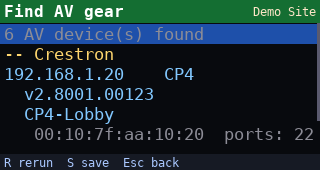
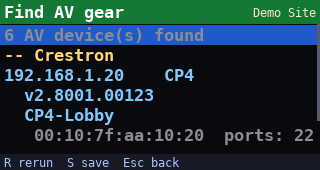
net-tools 0.2.4: match shared TNT UI colours and font, number-only fields
Claude-Session: https://claude.ai/code/session_01GkgDxeG2mjJ9KCWVtnQ19T

diff --git a/net-tools/tntnet/ui.py b/net-tools/tntnet/ui.py
@@ -25,9 +25,9 @@ OK = (110, 230, 120)
 WARN = (255, 190, 60)
 BAD = (255, 95, 95)
 INFO = (130, 200, 255)
-BAR = (20, 110, 50)       # green title bar
-SEL = (30, 80, 170)       # blue highlight: move with F/X
-EDIT = (170, 30, 30)      # red highlight: typing into this field
+BAR = (18, 120, 52)       # green title bar (same as the shared TNT UI)
+SEL = (30, 90, 200)       # blue highlight: move with F/X
+EDIT = (190, 28, 28)      # red highlight: typing into this field
 
 MONO = "/usr/share/fonts/truetype/dejavu/DejaVuSansMono.ttf"
 MONO_BOLD = "/usr/share/fonts/truetype/dejavu/DejaVuSansMono-Bold.ttf"
@@ -135,6 +135,12 @@ class Field:
     choices: list = field(default_factory=list)   # cycle with Left/Right
 
 
+# Fields that only take certain characters (IPs: digits and dots).
+_DIGITS = set("0123456789")
+ALLOWED = {"ip": _DIGITS | {"."}, "port": _DIGITS, "lport": _DIGITS, "count": _DIGITS,
+           "size": _DIGITS, "seconds": _DIGITS, "mb": _DIGITS, "extra": _DIGITS | {",", " "}}
+
+
 class Form(Screen):
     """Fields on the keyboard, two modes (TNT standard):
     move: F/X (or arrows) pick a field, OK/Right starts editing it, Esc/Left
@@ -190,7 +196,7 @@ class Form(Screen):
                 f.value = f.value[:-1]
             elif k.name == "del":
                 f.value = ""
-            elif k.char:
+            elif k.char and (f.key not in ALLOWED or k.char in ALLOWED[f.key]):
                 f.value += k.char
             return
         nav = k.nav
@@ -429,10 +435,10 @@ class Painter:
     """Draws a View onto a surface of any size with a given font size."""
 
     def __init__(self, size: tuple[int, int], fsize: int, title_size: int, pad: int,
-                 hint_size: int = 0, wrap: bool = False):
+                 hint_size: int = 0, wrap: bool = False, bold: bool = False):
         self.size = size
         self.wrap = wrap
-        self.f = font(fsize)
+        self.f = font(fsize, bold)
         self.fb = font(title_size, bold=True)
         self.fh = font(hint_size or max(9, fsize - 1))
         self.lh = self.f.get_linesize()
@@ -536,7 +542,7 @@ class Renderer:
             self.lcd_dev, self.fw, self.fh, self.bpp = found
         self.lcd = pygame.Surface((320, 170))
         # Big enough to read at arm's length: about 6 rows x 31 columns.
-        self.lcd_p = Painter((320, 170), 17, 16, 4, hint_size=12, wrap=True)
+        self.lcd_p = Painter((320, 170), 17, 17, 4, hint_size=12, wrap=True, bold=True)
         self.win = None
         self.win_p = None
         self.last = None

diff --git a/net-tools/tntnet/app.py b/net-tools/tntnet/app.py
@@ -17,7 +17,7 @@ import pygame  # noqa: E402
 from . import keys, reports, store, util  # noqa: E402
 from .ui import DIM, Field, Form, Line, Menu, Message, Renderer, Screen, TaskScreen, View  # noqa: E402
 
-VERSION = "0.2.3"
+VERSION = "0.2.4"
 
 
 class App:
@@ -288,7 +288,7 @@ def capture_menu(app):
             app.task("pcap capture", sniff.pcap, cfg=app.cfg, iface=ifc(v), bpf=v["bpf"], seconds=v["seconds"],
                      max_mb=v["mb"])
         app.push(Form("pcap capture", [app.iface_field(util.wired_name()), Field("bpf", "Filter (tcpdump)", ""),
-                                       Field("seconds", "Seconds (blank=until X)", ""), Field("mb", "Max MB", "100")],
+                                       Field("seconds", "Seconds (blank=until Q)", ""), Field("mb", "Max MB", "100")],
                       go, "Saved in the site's report folder."))
 
     app.push(Menu("Capture", [("Control-protocol sniffer", sniffer), ("pcap capture (mirror port)", pcap)]))
